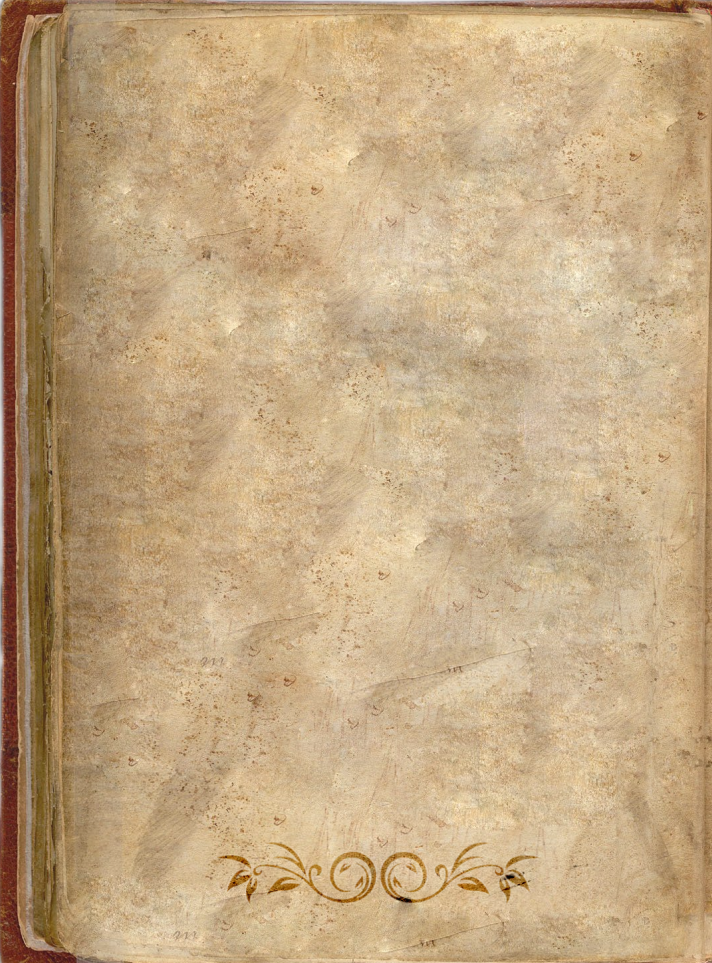
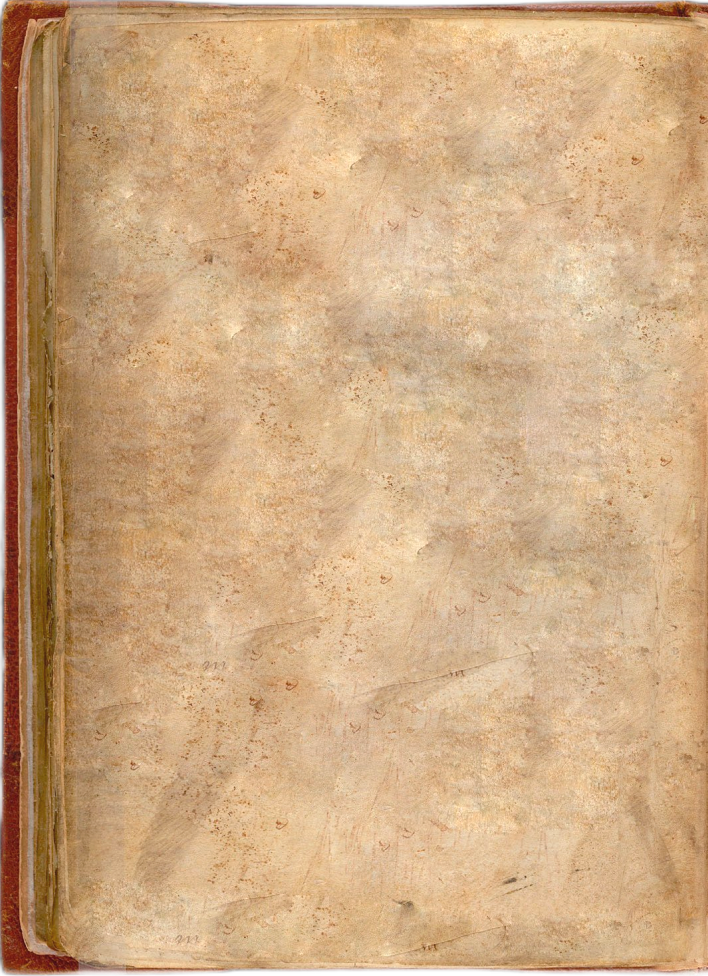
починил анимацию открытия

Changed region(s): [[0.0, 0.0, 1.0, 1.0], [0.6215, 0.6231, 0.6525, 0.6542], [0.3107, 0.4673, 0.3418, 0.4984]]

diff --git a/src/main.js b/src/main.js
@@ -14,21 +14,13 @@ buttonStart.addEventListener('click', () => {
     rightPage.remove();
     mainPage.innerHTML = `
     <div class="container1">
-          <div class="wrapper-book">
+          <div class="open-book">
             <div class="flip-book" id="demoBookExample">
                 <div class="page cover page-cover-top page-test">
-                    <div class="page-content">
-                        <img class="cover_img" src="../assets/book-cover1.png">
-                        <h2>BOOK TITLE</h2>
-                    </div>
                 </div>
                 <div class="page page1">
-                    <div class="page-content">
-                    </div>
                 </div>
                 <div class="page page2">
-                    <div class="page-content ">
-                    </div>
                 </div>
             </div>
           </div>
@@ -38,15 +30,11 @@ buttonStart.addEventListener('click', () => {
 const pageFlip = new PageFlip(
     document.getElementById("demoBookExample"),
     {
-        width: 550, // base page width
-        height: 803, // base page height
+        width: 640, // base page width
+        height: 882, // base page height
 
-        size: "stretch",
+        size: "fixed",
         // set threshold values:
-        minWidth: 315,
-        maxWidth: 1000,
-        minHeight: 800,
-        maxHeight: 1350,
         drawShadow: false,
         showCover: true,
         usePortrait: false,
@@ -57,9 +45,9 @@ const pageFlip = new PageFlip(
 pageFlip.loadFromHTML(document.querySelectorAll(".page"));
 setTimeout(() => {  pageFlip.flipNext(); }, 10);
 setTimeout(() => {
-    pageFlip.destroy();
-    const container = document.querySelector('.container1');
-    container.remove();
+    // pageFlip.destroy();
+    // const container = document.querySelector('.container1');
+    // container.remove();
     mainPage.innerHTML = `
     <div class="container">
           <div class="wrapper-book">
@@ -91,26 +79,6 @@ setTimeout(() => {
                         <div class="page-footer">2</div>
                     </div>
                 </div>
-                <div class="page page-test2">
-                    <div class="page-content ">
-                        <h2 class="page-header">Page header - 15</h2>
-                        <div class="page-image" style="background-image: url(images/html/7.jpg)"></div>
-                        <div class="page-text">Lorem ipsum dolor sit amet, consectetur adipiscing elit. In cursus mollis nibh, non convallis ex convallis eu. Suspendisse potenti. Aenean vitae pellentesque erat. Integer non tristique quam. Suspendisse rutrum, augue ac sollicitudin mollis, eros velit viverra metus, a venenatis tellus tellus id magna. Aliquam ac nulla rhoncus, accumsan eros sed, viverra enim. Pellentesque non justo vel nibh sollicitudin pharetra suscipit ut ipsum. Lorem ipsum dolor sit amet, consectetur adipiscing elit. In cursus mollis nibh, non convallis ex convallis eu. Suspendisse potenti. Aenean vitae pellentesque erat. Integer non tristique quam. Suspendisse rutrum, augue ac sollicitudin mollis, eros velit viverra metus, a venenatis tellus tellus id magna.</div>
-                        <div class="page-footer">16</div>
-                    </div>
-                </div>
-                <div class="page page-test2">
-                    <div class="page-content">
-                        <h2 class="page-header">Page header - 16</h2>
-                        <div class="page-image" style="background-image: url(images/html/8.jpg)"></div>
-                        <div class="page-text">Lorem ipsum dolor sit amet, consectetur adipiscing elit. In cursus mollis nibh, non convallis ex convallis eu. Suspendisse potenti. Aenean vitae pellentesque erat. Integer non tristique quam. Suspendisse rutrum, augue ac sollicitudin mollis, eros velit viverra metus, a venenatis tellus tellus id magna. Aliquam ac nulla rhoncus, accumsan eros sed, viverra enim. Pellentesque non justo vel nibh sollicitudin pharetra suscipit ut ipsum. Lorem ipsum dolor sit amet, consectetur adipiscing elit. In cursus mollis nibh, non convallis ex convallis eu. Suspendisse potenti. Aenean vitae pellentesque erat. Integer non tristique quam. Suspendisse rutrum, augue ac sollicitudin mollis, eros velit viverra metus, a venenatis tellus tellus id magna.</div>
-                        <div class="page-footer">17</div>
-                    </div>
-                </div>
-                <div class="page page-cover page-cover-bottom" data-density="soft">
-                    <div class="page-content">
-                        <h2>THE END</h2>
-                    </div>
                 </div>
             </div>
         </div>
@@ -135,7 +103,7 @@ const Book = new PageFlip(
     }
 );
 Book.loadFromHTML(document.querySelectorAll(".page"));
-}, 1100);
+}, 990);
 testButton.addEventListener('click', () =>{
     const tempDiv = document.createElement("div");
     tempDiv.className = "page";

diff --git a/src/styles/book.scss b/src/styles/book.scss
@@ -6,11 +6,7 @@
     background-position: 50% 50%;
     background-size: auto 100%;
 }
-.container1{
-    margin: 0 auto;
-    width: 100%;
-    height: 900px;
-}
+
 .wrapper-book{
     margin: 0 auto;
     margin-top: 25px;
@@ -21,29 +17,6 @@
         background-size: cover;
         height: 100%;
         top:0;
-    }
-    .page1{
-        background:url(../assets/book_hl.png) no-repeat ; 
-        background-size: cover;
-        height: 100%;
-        top:0;
-    }
-    .page2{
-        background:url(../assets/book_hl2.png) no-repeat ; 
-        background-size: cover;
-        height: 100%;
-        top:0;
-    }
-    .cover{
-        background:url(../assets/book-cover1.png) no-repeat ; 
-        height: 100%;
-        top:0;
-    }
-    .cover_img{
-        position: absolute;
-        scale: 101%;
-        top: -10px;
-        left:-10px;
     }
     .flip-book{
 

diff --git a/src/styles/open.scss b/src/styles/open.scss
@@ -1,0 +1,27 @@
+.container1{
+    margin: 0 auto;
+    width: 100%;
+    height: 900px;
+}
+.open-book{
+    margin: 0 auto;
+    max-width: 1280px;
+    height: 100%;
+    .page1{
+        background:url(../assets/book_hl.png) no-repeat ; 
+        background-size: cover;
+        height: 100%;
+        top:0;
+    }
+    .page2{
+        background:url(../assets/book_hl2.png) no-repeat ; 
+        background-size: cover;
+        height: 100%;
+        top:0;
+    }
+    .cover{
+        background:url(../assets/book-cover1.png) no-repeat ; 
+        height: 100%;
+        top:0;
+    }
+}

diff --git a/src/styles/style.scss b/src/styles/style.scss
@@ -1,7 +1,8 @@
-@import url(nullstyle.scss);
+@import 'nullstyle.scss';
 @import url('https://fonts.googleapis.com/css2?family=Marck+Script&display=swap');
-@import url(book.scss);
-@import url(text.scss);
+@import 'book.scss';
+@import 'text.scss';
+@import 'open.scss';
 
 .wrapper{
     width: 100%;
